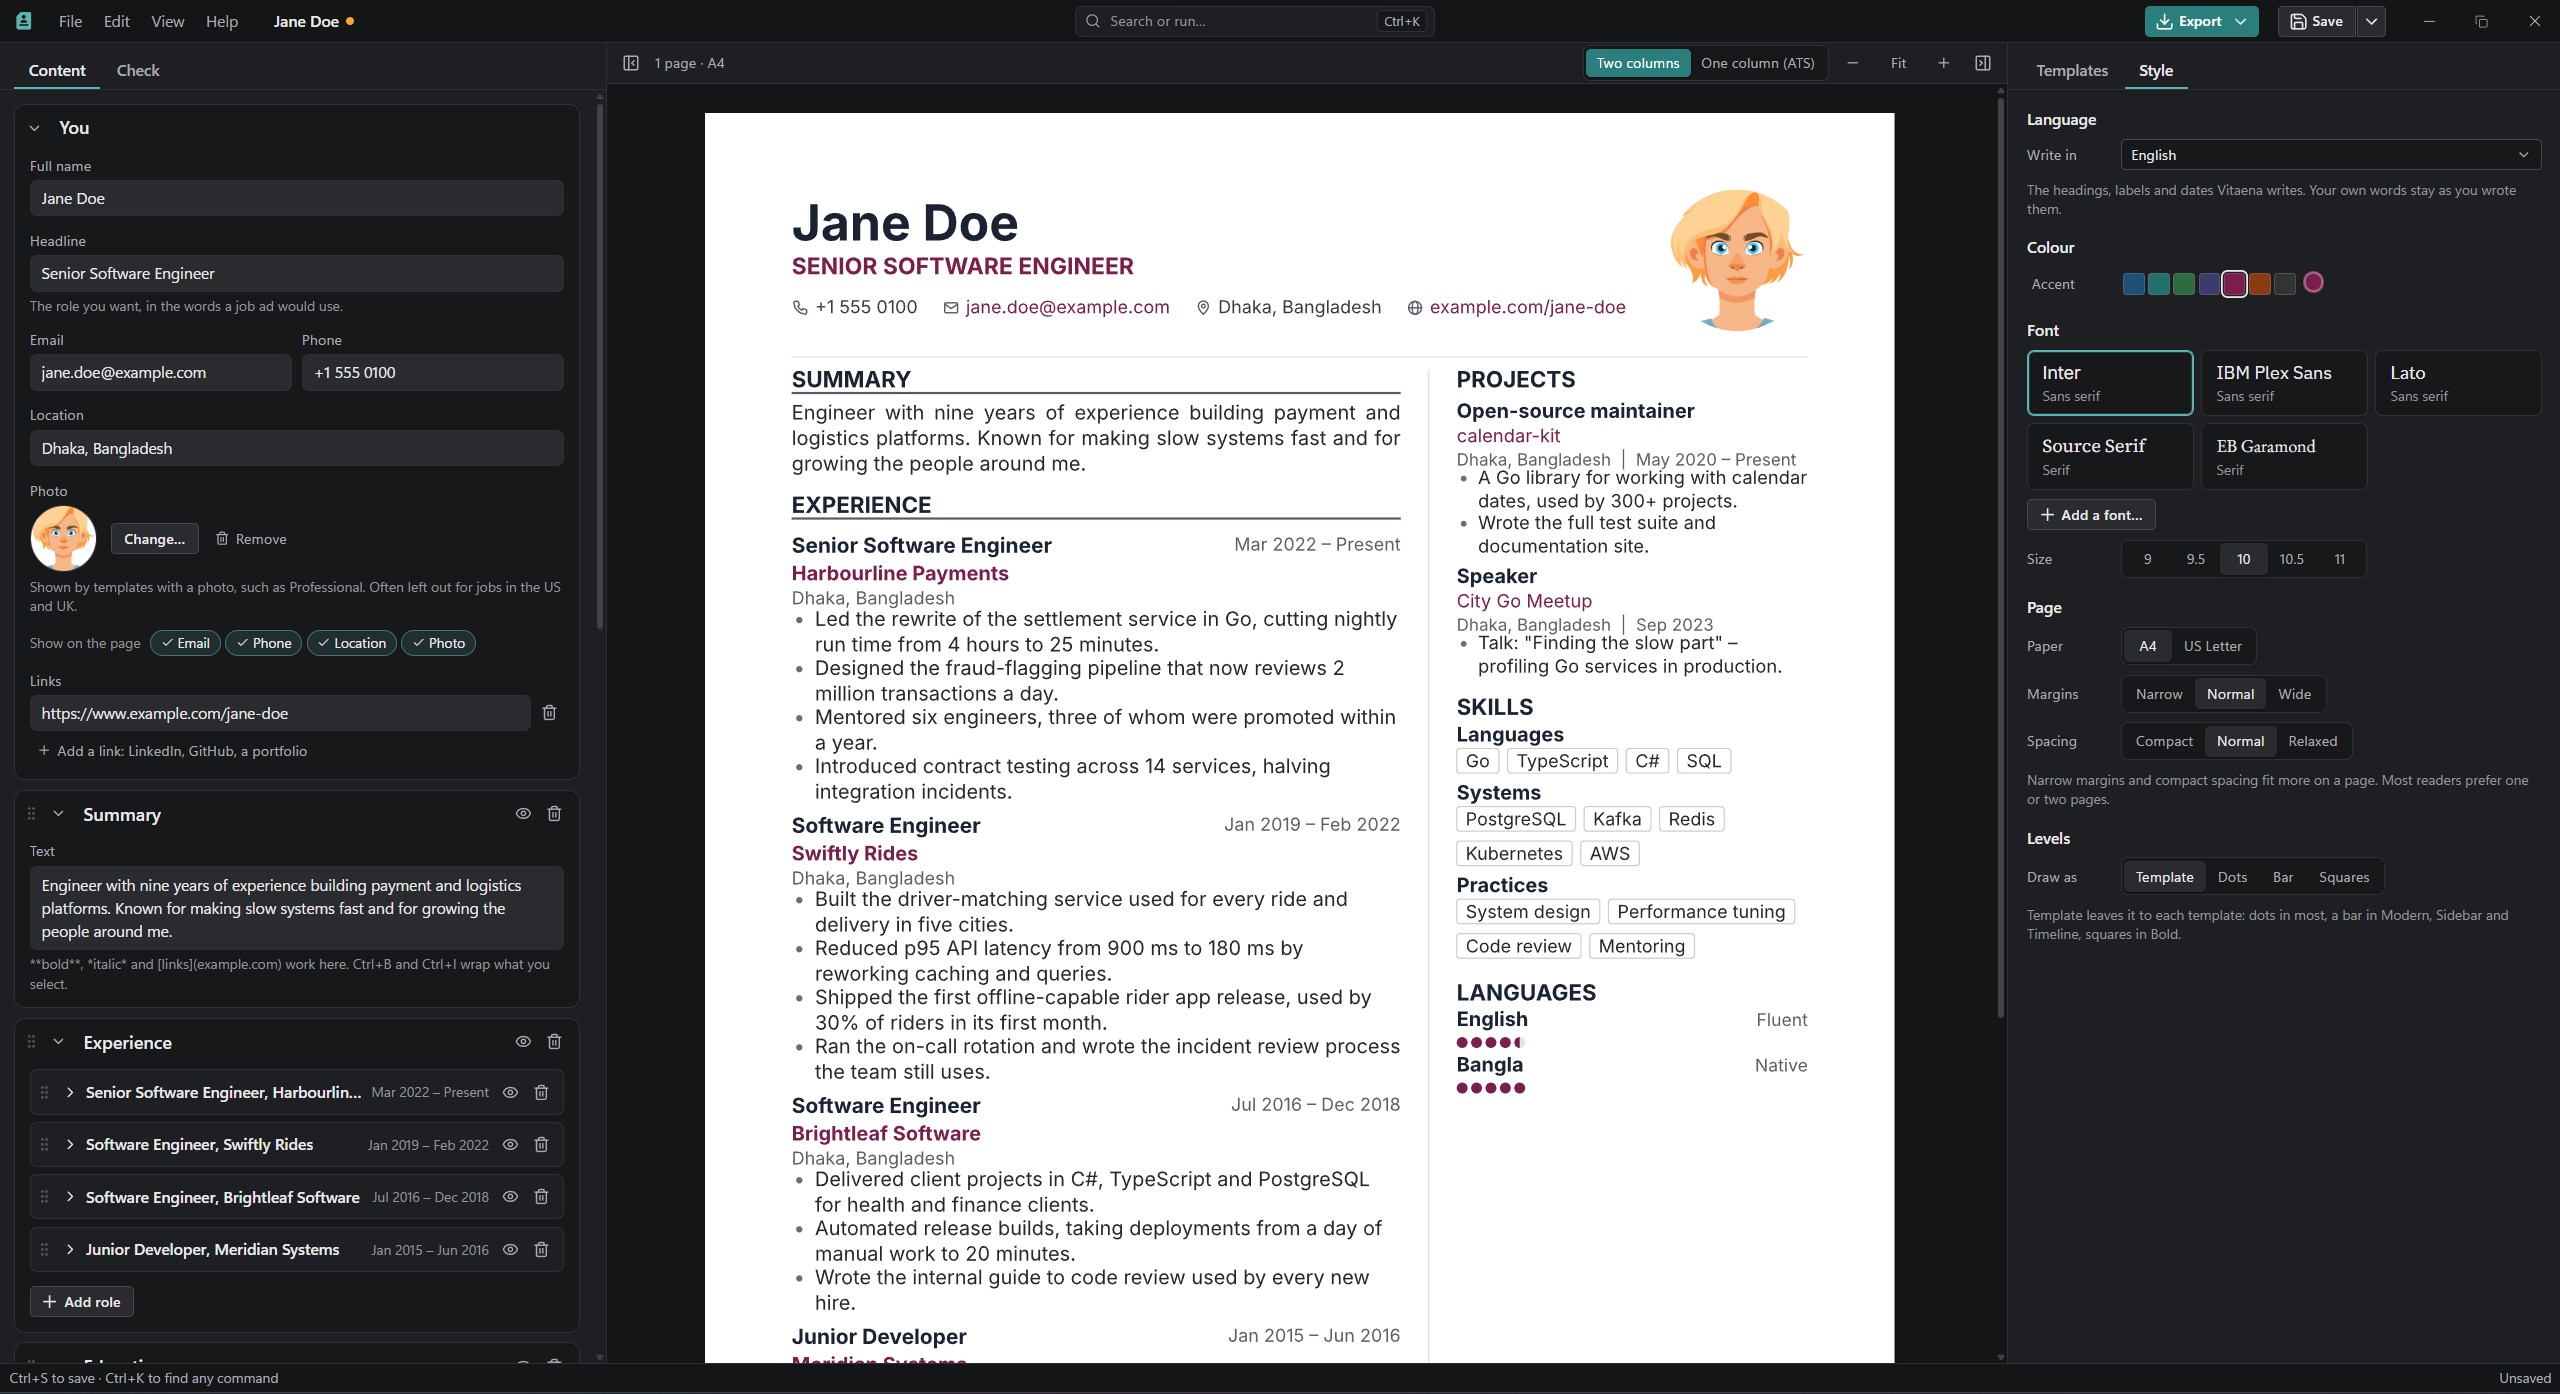
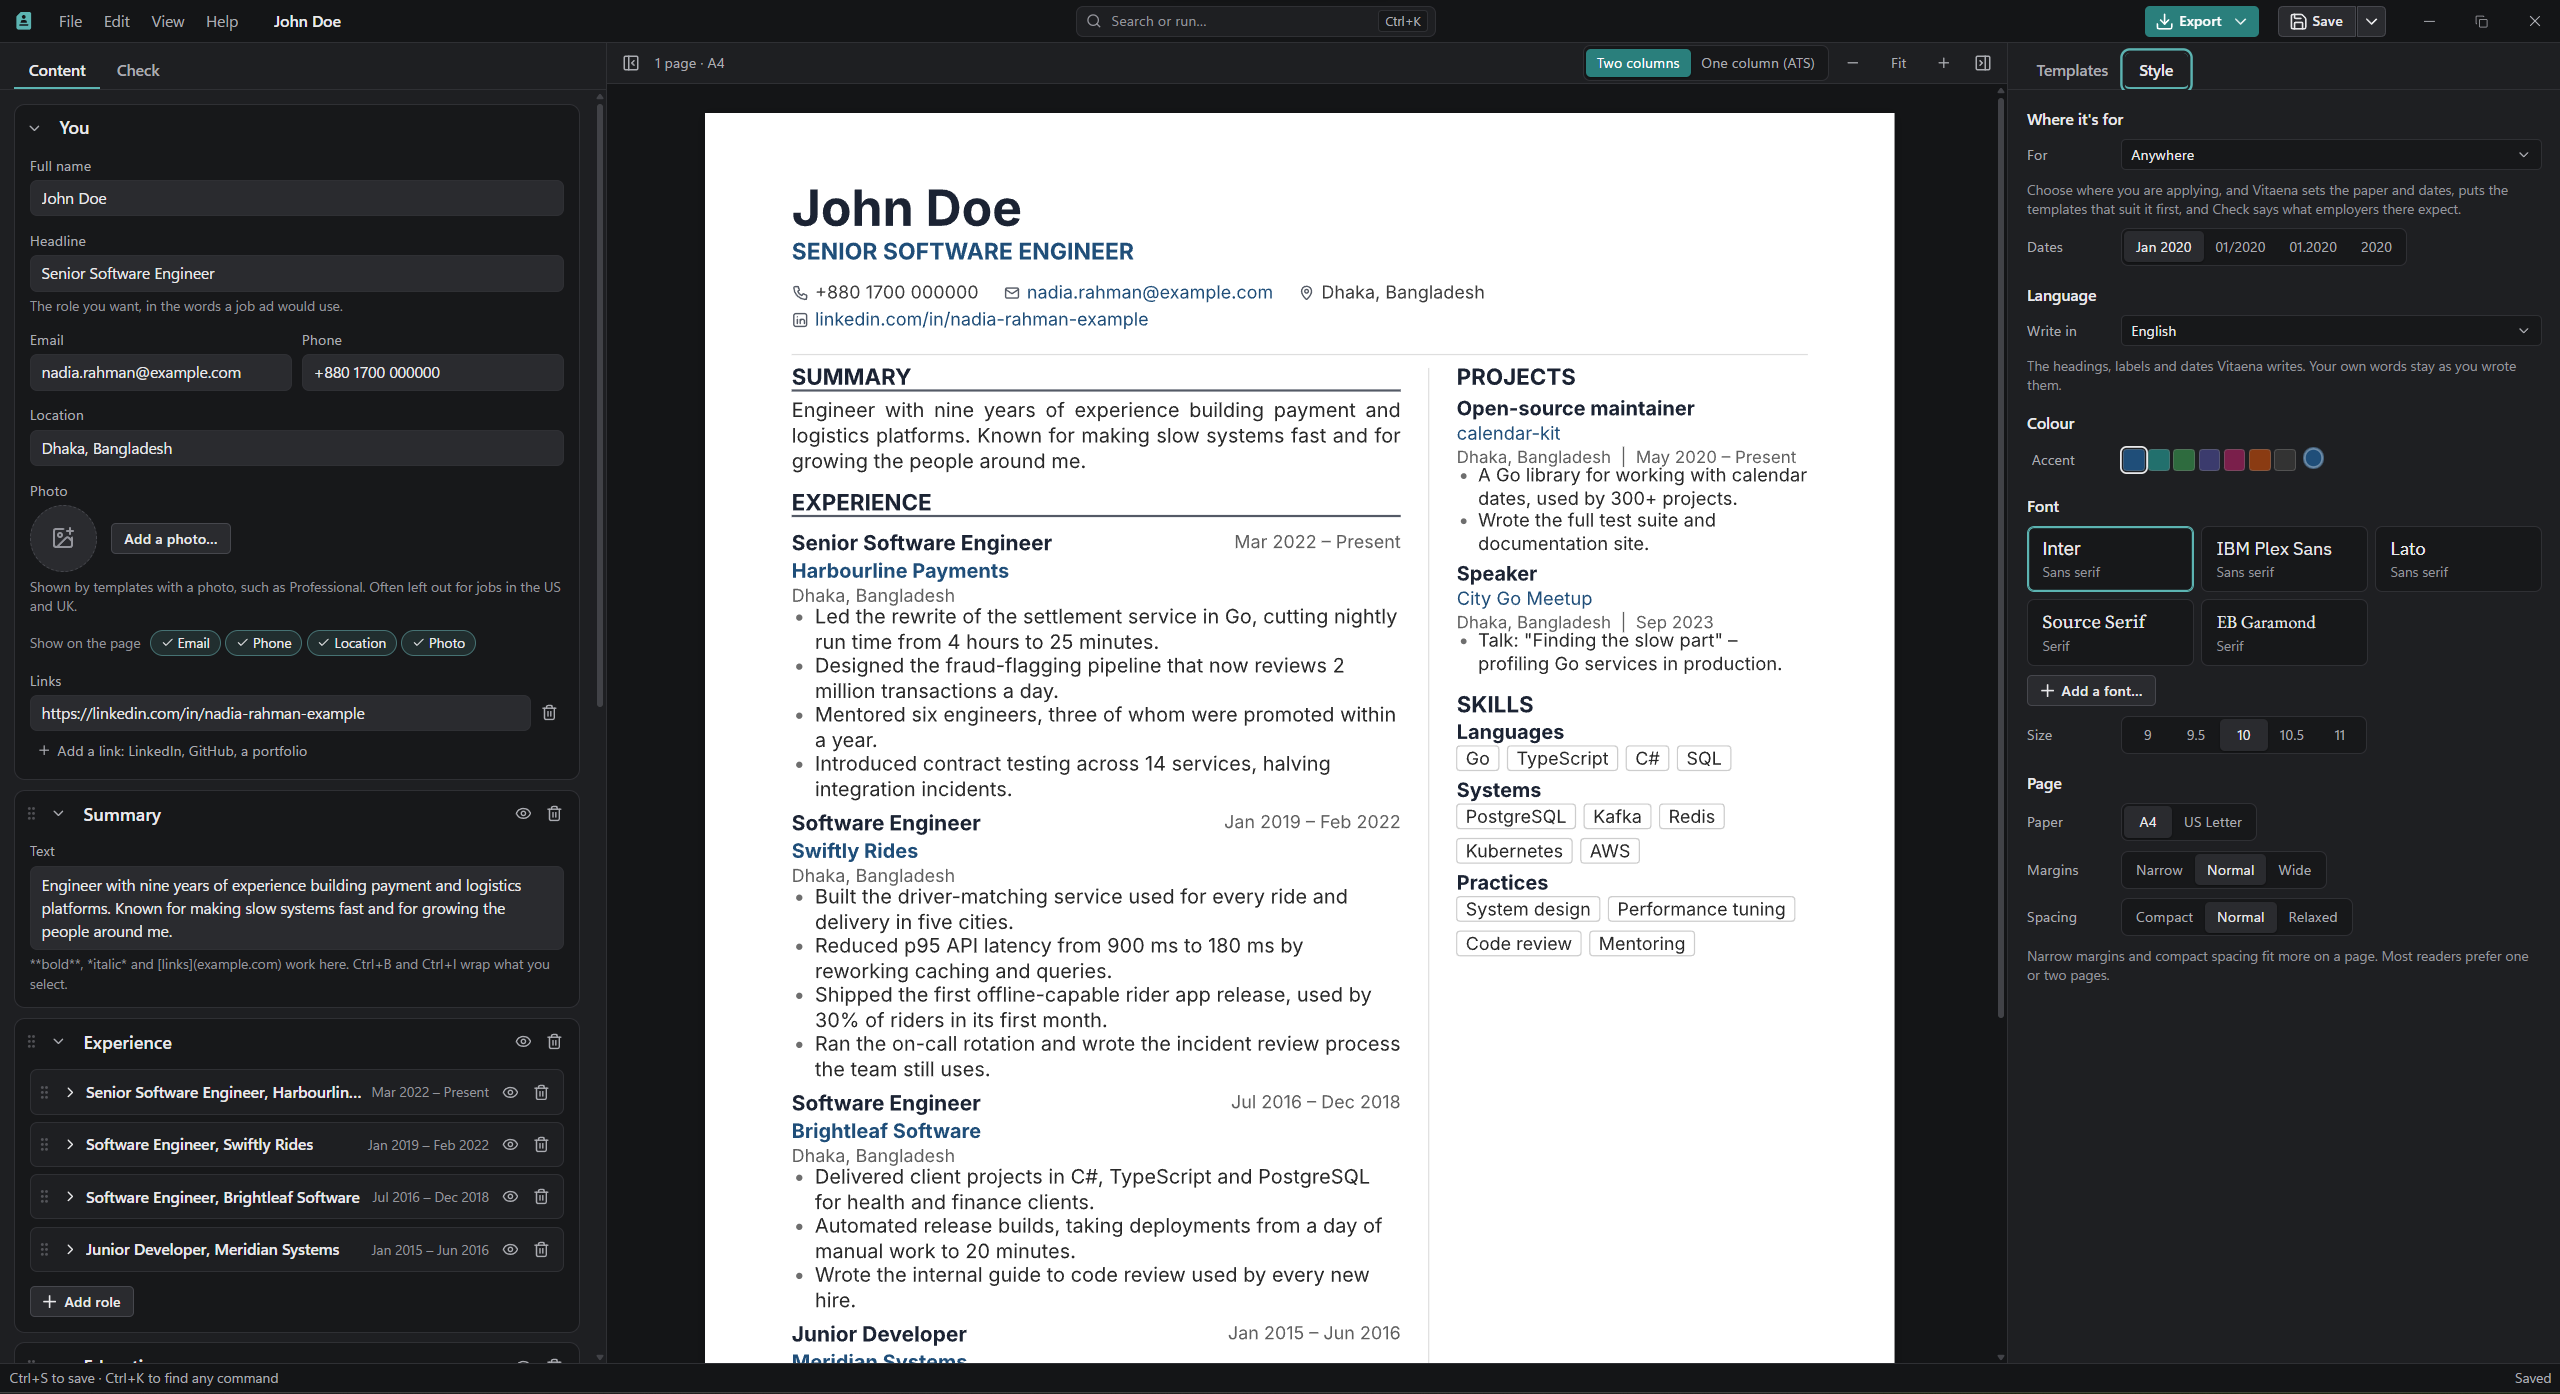
README: the new editor picture and the three new templates
The editor picture shows Style's new Where it's for. The gallery gains
Lebenslauf, European and Harvard, made by make previews, which now gives
templates the shared parts.typ they import, as the app does. Harvard's
lines get a little more room, so descenders in a serif font don't meet the
line below.

diff --git a/README.md b/README.md
@@ -104,6 +104,10 @@ Everything else is on the [website](https://vitaena.ahs12.xyz), with pages for
 |---|---|---|---|---|
 | ![Executive](docs/assets/templates/executive.png) | ![Timeline](docs/assets/templates/timeline.png) | ![Minimal](docs/assets/templates/minimal.png) | ![Compact](docs/assets/templates/compact.png) | ![Academic](docs/assets/templates/academic.png) |
 
+| Lebenslauf | European | Harvard |
+|---|---|---|
+| ![Lebenslauf](docs/assets/templates/lebenslauf.png) | ![European](docs/assets/templates/european.png) | ![Harvard](docs/assets/templates/harvard.png) |
+
 ### Biodata
 
 | Heritage | Clean | Portrait |
